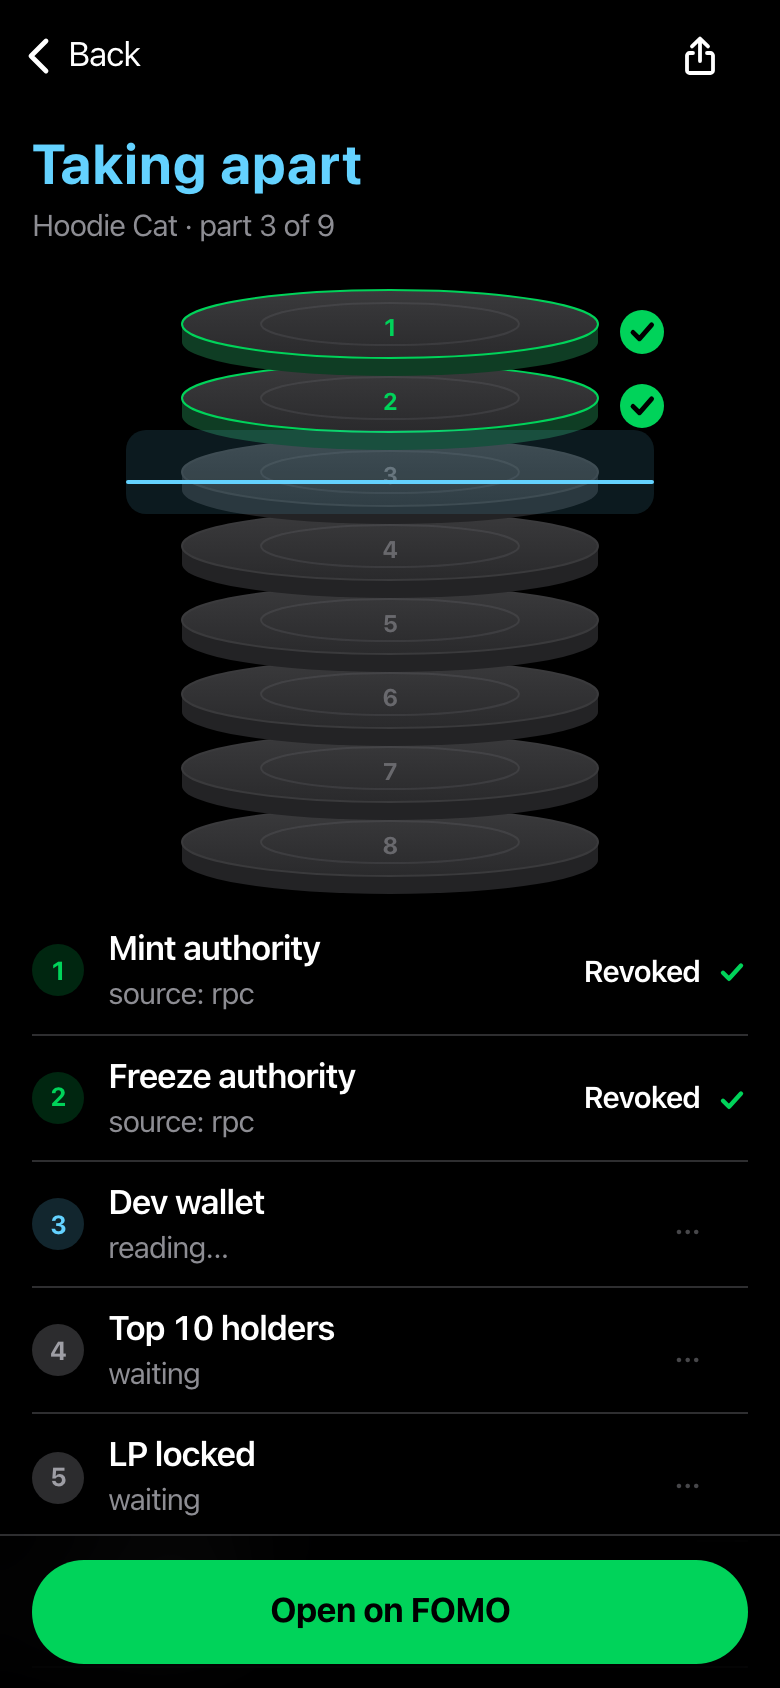
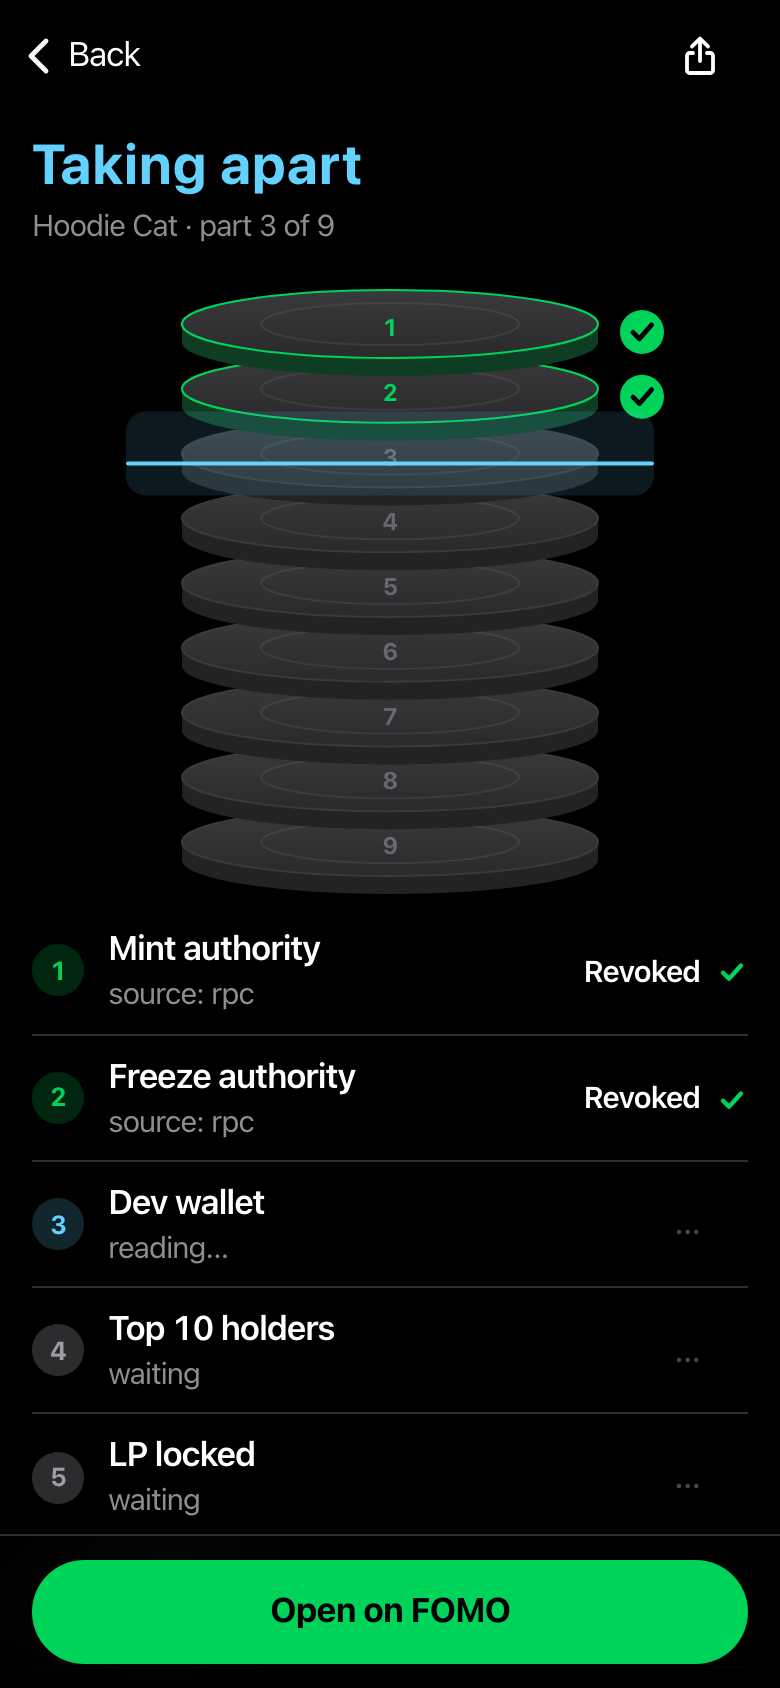
Audit stack and shield follow the layer count (9 parts)

Changed region(s): [[0.1538, 0.2156, 0.8615, 0.4929]]

diff --git a/desk/web/app.js b/desk/web/app.js
@@ -58,6 +58,7 @@
     return Math.round(h / 24) + 'd old';
   }
   const CHAIN = { solana: 'Solana', robinhood: 'Robinhood Chain' };
+  const fullShield = (s) => { const m = /^(\d+)\/(\d+)/.exec(String(s || '')); return !!m && m[1] === m[2]; };
   const clamp = (v, a, b) => Math.max(a, Math.min(b, v));
   function toast(text) {
     const t = $('#toast'); t.textContent = text; t.classList.add('on');
@@ -363,7 +364,7 @@
       let line;
       if (!cur) line = '<span class="muted">No coin taken apart yet</span>';
       else if (reading && firstOpen) line = `<span style="color:var(--cyan)">taking apart ${esc(cur.name)}...</span>`;
-      else if (c.last && /^8\/8/.test(c.last)) line = `<span class="up">${esc(c.last)}</span>`;
+      else if (c.last && fullShield(c.last)) line = `<span class="up">${esc(c.last)}</span>`;
       else if (c.last) line = `<span class="down">${esc(c.last)}</span>`;
       else line = '';
       body.innerHTML = `<div class="abig" style="color:#4da3ff">${intf(c.takenApart)}<small>taken apart</small></div>
@@ -889,7 +890,7 @@
       navShare(root, 'trade', { mint });
       const pos = c.position;
       const sh = c.shield;
-      const shCls = !sh ? 'na' : /^8\/8/.test(sh) ? 'ok' : 'bad';
+      const shCls = !sh ? 'na' : fullShield(sh) ? 'ok' : 'bad';
       const age = ageText(c.ageH);
       const sep = num(c.sinceEntryPct);
       const meta = [esc(c.symbol), esc(CHAIN[c.chain] || c.chain), age].filter(Boolean).join(' · ');
@@ -961,9 +962,10 @@
     const L = {}; // n -> layer
     let meta = null;
 
-    const DX = 150, R = 104, RY = 17, TH = 9, GAP = 37, Y0 = 26;
+    const DX = 150, R = 104, RY = 17, TH = 9, Y0 = 26;
+    const gap = () => Math.min(37, 259 / Math.max(1, NL - 1)); // 8 or 9 discs fit the same stack
     function disc(n) {
-      const cy = Y0 + (n - 1) * GAP;
+      const cy = Y0 + (n - 1) * gap();
       return `<g data-disc="${n}">
         <path d="M${DX - R} ${cy} v${TH} a${R} ${RY} 0 0 0 ${2 * R} 0 v-${TH} z" fill="#232325" data-side/>
         <ellipse cx="${DX}" cy="${cy}" rx="${R}" ry="${RY}" fill="url(#face)" stroke="#3a3a3c" stroke-width="1" data-face/>
@@ -980,7 +982,7 @@
         <div class="verdict" data-v></div>
         <div class="stackbox"><svg viewBox="0 0 300 310" aria-hidden="true">
           <defs><linearGradient id="face" x1="0" y1="0" x2="0" y2="1"><stop offset="0" stop-color="#3a3a3c"/><stop offset="1" stop-color="#2a2a2c"/></linearGradient></defs>
-          ${[8, 7, 6, 5, 4, 3, 2, 1].map(disc).join('')}
+          ${Array.from({ length: NL }, (_, i) => NL - i).map(disc).join('')}
           <g data-beam opacity="0">
             <rect x="18" y="${Y0 - 21}" width="264" height="42" rx="10" fill="rgba(100,210,255,0.12)"/>
             <rect x="18" y="${Y0 + 4}" width="264" height="2" rx="1" fill="#64d2ff"/>
@@ -1025,7 +1027,7 @@
     const beam = { y: 0, op: 0, raf: 0 };
     function setBeam(n, show) {
       const b = $('[data-beam]', box); if (!b) return;
-      const y1 = (n - 1) * GAP, o1 = show ? 1 : 0;
+      const y1 = (n - 1) * gap(), o1 = show ? 1 : 0;
       const y0 = beam.y, o0 = beam.op, t0 = performance.now();
       cancelAnimationFrame(beam.raf);
       const tick = () => {
@@ -1050,7 +1052,7 @@
     function paintRow(n) { const r = $(`[data-row="${n}"]`, box); if (r) r.outerHTML = layerRow(n); }
     function step() {
       if (done || busy) return;
-      if (cursor > 8) { finish(); return; }
+      if (cursor > NL) { finish(); return; }
       if (!L[cursor]) { setBeam(cursor, true); paintRow(cursor); return; } // beam waits for data
       busy = true; setBeam(cursor, true); paintRow(cursor); paintVerdict();
       later(() => {
@@ -1464,7 +1466,7 @@
       const { candles, entry } = candlesFor(c, 0, pp);
       c.price = candles[candles.length - 1][4];
       const a = auditFor(c);
-      const shield = `${a.layers.filter((l) => l.pass === true).length}/8`;
+      const shield = `${a.layers.filter((l) => l.pass === true).length}/${a.layers.length}`;
       let position = null, exitLine = null;
       if (isOpen) {
         const peak = Math.max(...candles.slice(-80).map((x) => x[2]));
